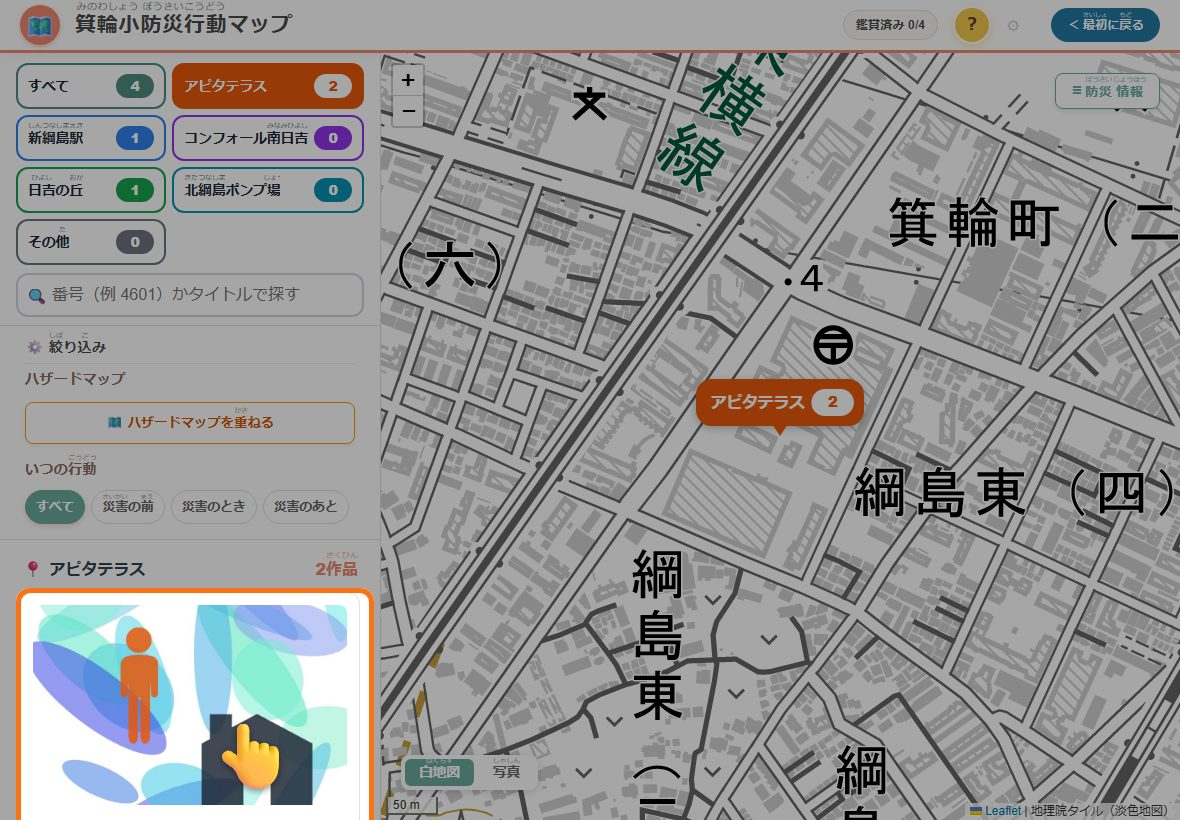
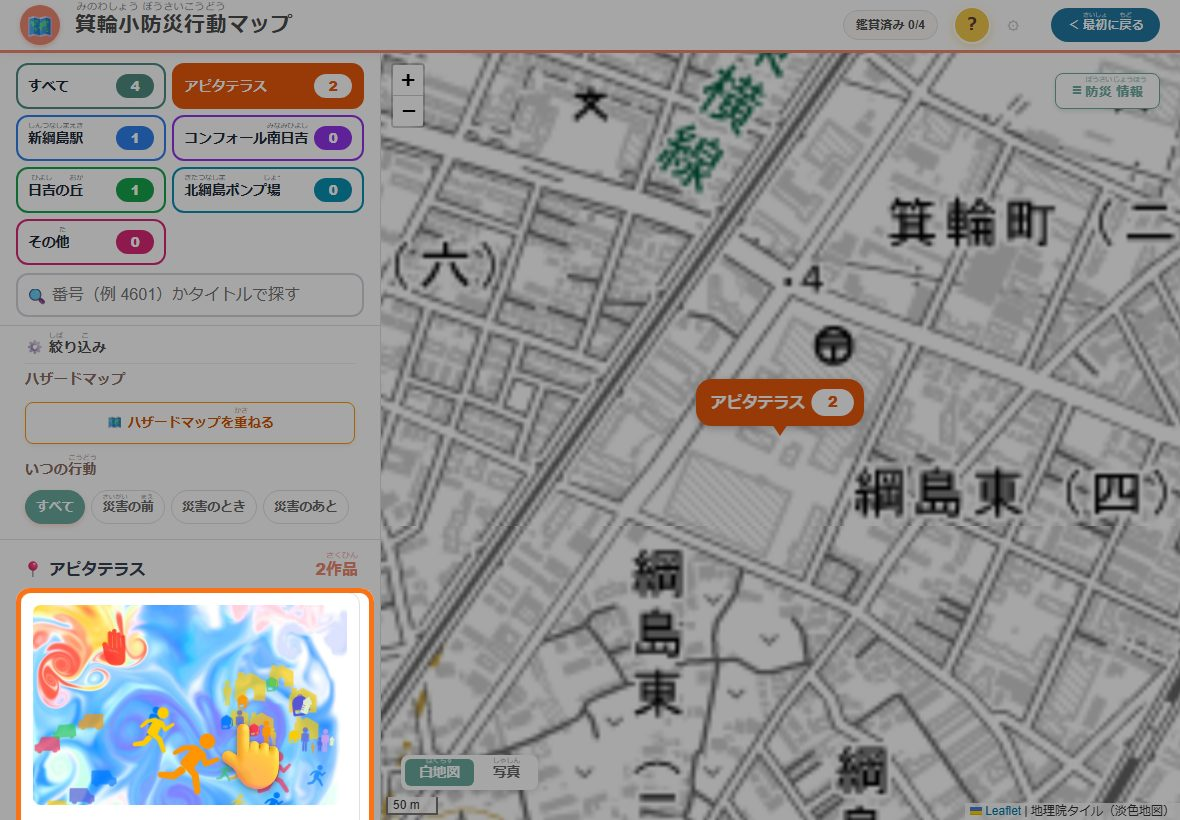
「その他」の色をピンクにして目立たせる・使い方の写真の見本を作品73「子どもたちと防災！」に
- places.js の MINOWA_OTHER の色を灰色 #6b7280 → ピンク #db2777（ほかの5か所と重ならない色）
  防災行動マップの「その他」の作品のピンを少し大きく（20px・ピンクのふち）
- 使い方の写真（guide_0N・detail_guide_0N）：既存の防災行動マップの作品73「子どもたちと防災！」（ほかに 69・54・67）を
  見本として手元の Worker にだけ登録して撮り、撮ったあとに消した（既存アプリのデータは読んだだけ）
- make_guide_images.mjs：作品ページの小さな地図のタイルが読み込まれるまで待ってから撮る
- README に「その他」のピンを置ける範囲の大きさ（中心・南北約4.4km×東西約4.5km）を書く

diff --git a/workshop/present/style.css b/workshop/present/style.css
@@ -922,7 +922,7 @@ ruby rt { font-size: .5em; font-weight: 400; color: inherit; opacity: .72; }
 .tutorial-spacer { display: inline-block; width: 1px; }
 /* 箕輪小版：「その他」の作品のピン（作品ごと・押すとその作品のページ） */
 .other-work-pin { background: none; border: 0; }
-.other-work-pin span { --pc: #6b7280; display: block; width: 16px; height: 16px; margin: 0; border-radius: 50%; background: var(--pc); border: 3px solid #fff; box-shadow: 0 1px 5px rgba(0,0,0,.45); cursor: pointer; }
+.other-work-pin span { --pc: #db2777; display: block; width: 20px; height: 20px; margin: 0; border-radius: 50%; background: var(--pc); border: 3px solid #fff; box-shadow: 0 0 0 2px #db2777, 0 1px 6px rgba(0,0,0,.5); cursor: pointer; }
 
 /* 絞り込み：いつも出しておくので、見出しは押せない形にする */
 .filter-main-header--static { cursor: default; }

diff --git a/workshop/present/index.html b/workshop/present/index.html
@@ -7,7 +7,7 @@
 
   <!-- ▼ Leaflet（同梱・外部依存なし） -->
   <link rel="stylesheet" href="./leaflet.css">
-  <link rel="stylesheet" href="./style.css?v=minowa12">
+  <link rel="stylesheet" href="./style.css?v=minowa13">
 </head>
 <body>
 
@@ -155,9 +155,9 @@
   <!-- ▼ Leaflet 本体（同梱） -->
   <script src="./leaflet.js"></script>
   <script src="../common/config.js?v=minowa5"></script>
-  <script src="../common/places.js?v=minowa8"></script>
+  <script src="../common/places.js?v=minowa9"></script>
   <script src="../common/ruby.js?v=minowa5"></script>
-  <script src="./script.js?v=minowa12"></script>
+  <script src="./script.js?v=minowa13"></script>
 
   <div id="tutorial-overlay" class="tutorial-overlay" style="display: none;">
     <div class="tutorial-card">

diff --git a/workshop/common/places.js b/workshop/common/places.js
@@ -22,7 +22,7 @@
     { id: 'pump',         name: '北綱島{きたつなしま}ポンプ場{じょう}', plain: '北綱島ポンプ場',   short: '北綱島{きたつなしま}ポンプ場{じょう}', lat: 35.53960528, lon: 139.65348008, color: '#0891b2' }
   ];
   // 「その他」：座標は作品ごとにちがう（ピンを置いた場所）
-  window.MINOWA_OTHER = { id: 'other', name: 'その他{た}', plain: 'その他', short: 'その他{た}', color: '#6b7280', isOther: true };
+  window.MINOWA_OTHER = { id: 'other', name: 'その他{た}', plain: 'その他', short: 'その他{た}', color: '#db2777', isOther: true };
   // 選ぶときに出す6つ（固定5か所＋その他）
   window.MINOWA_CHOICES = window.MINOWA_PLACES.concat([window.MINOWA_OTHER]);
 

diff --git a/workshop/present/script.js b/workshop/present/script.js
@@ -226,7 +226,7 @@ document.addEventListener("DOMContentLoaded", () => {
     ALL.filter(f => isOtherWork(f) && passFilter(f, true)).forEach(f => {
       const c = f.geometry.coordinates;
       L.marker([c[1], c[0]], {
-        icon: L.divIcon({ className: "other-work-pin", html: '<span style="--pc:' + oc + '"></span>', iconSize: [22, 22], iconAnchor: [11, 11] }),
+        icon: L.divIcon({ className: "other-work-pin", html: '<span style="--pc:' + oc + '"></span>', iconSize: [30, 30], iconAnchor: [15, 15] }),
         title: (f.properties.field_25 || "") + " " + (f.properties.Message || "")
       }).on("click", () => { window.location.href = "detail.html?id=" + f.properties.id; })
         .addTo(placeLayer);

diff --git a/workshop/message/artwork/artwork_submit.html b/workshop/message/artwork/artwork_submit.html
@@ -77,7 +77,7 @@
         <button type="button" class="s7-zoom-close" id="artZoomClose">✕ とじる</button>
     </div>
     <script src="../../common/progress.js?v=minowa4"></script>
-    <script src="../../common/places.js?v=minowa8"></script>
+    <script src="../../common/places.js?v=minowa9"></script>
     <script src="../../common/ruby.js?v=minowa5"></script>
     <script src="./artwork_submit_script.js?v=minowa5"></script>
 </body>

diff --git a/workshop/map/Log/log_hazard_map.html b/workshop/map/Log/log_hazard_map.html
@@ -58,7 +58,7 @@
 
     <script src="https://unpkg.com/leaflet@1.9.4/dist/leaflet.js"></script>
     <script src="../../common/progress.js?v=minowa4"></script>
-    <script src="../../common/places.js?v=minowa8"></script>
+    <script src="../../common/places.js?v=minowa9"></script>
     <script src="../../common/ruby.js?v=minowa5"></script>
     <script src="./log_hazard_map_script.js?v=minowa5"></script>
 </body>

diff --git a/workshop/message/lastconfirm/final_submit.html b/workshop/message/lastconfirm/final_submit.html
@@ -53,7 +53,7 @@
 
     <script src="../../common/config.js?v=minowa5"></script>
     <script src="../../common/progress.js?v=minowa4"></script>
-    <script src="../../common/places.js?v=minowa8"></script>
+    <script src="../../common/places.js?v=minowa9"></script>
     <script src="../../common/ruby.js?v=minowa5"></script>
     <script src="./final_submit_script.js?v=minowa10"></script>
 </body>

diff --git a/workshop/present/admin.html b/workshop/present/admin.html
@@ -173,7 +173,7 @@
   </div>
 
   <script src="../common/config.js?v=minowa5"></script>
-  <script src="../common/places.js?v=minowa8"></script>
+  <script src="../common/places.js?v=minowa9"></script>
   <script src="../common/ruby.js?v=minowa5"></script>
   <script src="./leaflet.js"></script>
   <script src="./admin_script.js?v=admin5"></script>

diff --git a/workshop/present/detail.html b/workshop/present/detail.html
@@ -85,7 +85,7 @@
 
   <script src="./leaflet.js"></script>
   <script src="../common/config.js?v=minowa5"></script>
-  <script src="../common/places.js?v=minowa8"></script>
+  <script src="../common/places.js?v=minowa9"></script>
   <script src="../common/ruby.js?v=minowa5"></script>
   <script src="./detail_script.js?v=minowa14"></script>
 </body>

diff --git a/README.md b/README.md
@@ -34,7 +34,9 @@
 - D1 の `place` 列：`apita`／`shintsunashima`／`conforte`／`hiyoshinooka`／`pump`／`other`
 - `lat`／`lon`：固定5か所はその場所の座標、`other` は児童がピンを置いた座標（場所名は保存しない）
 - 「その他」のピンを置ける範囲（綱島・日吉周辺）：北緯 35.525〜35.565、東経 139.620〜139.670（`places.js` の `MINOWA_AREA` と `worker/src/index.js` の `AREA`。Worker もこの範囲外を受け付けない）
-- 防災行動マップ：固定5か所は「場所のピン（作品の数つき）」、「その他」の作品は作品ごとの小さなピン。「その他」の作品は場所の説明に「その他」と出し、「前の作品／次の作品」の対象にしない（1点ずつ表示）
+  - 大きさ：緯度・経度の四角形（円ではない）。中心は北緯 35.545・東経 139.645（港北区箕輪町二丁目）で、南北 約4.4km × 東西 約4.5km（中心から東西南北に約2.2km）。北は川崎市中原区の井田中ノ町、南は港北区師岡町、西は港北区新吉田東、東は川崎市幸区小倉あたりまで
+  - 固定5か所はどれも中心から1.2km 以内にあり、枠の端まではどの場所からも1.2km 以上ある
+- 防災行動マップ：固定5か所は「場所のピン（作品の数つき）」、「その他」の作品は作品ごとのピンク色のピン。「その他」の作品は場所の説明に「その他」と出し、「前の作品／次の作品」の対象にしない（1点ずつ表示）
 
 ## そのほかの決まり
 
